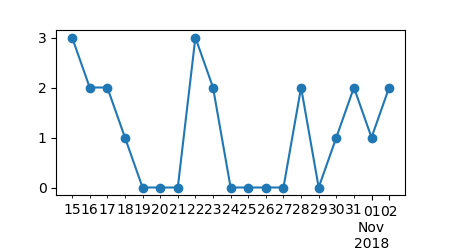
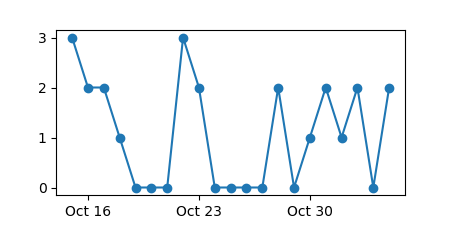
benoit, mueter, fig update

diff --git a/readingStats.py b/readingStats.py
@@ -3,6 +3,7 @@ import pandas as pd
 import itertools
 from collections import Counter
 import matplotlib.pyplot as plt
+import matplotlib.dates as mdates
 import os
 from wordcloud import WordCloud
 
@@ -33,7 +34,11 @@ wordcloud.to_file("readingCloud.png")
 a = readDates.groupby('Date').size()
 idx = pd.date_range(min(readDates.Date), max(readDates.Date))
 a =a.reindex(idx,fill_value=0)
-a.plot(style='o-',figsize = (4.5,2.5))
+fig, ax = plt.subplots(figsize=(4.5,2.5))
+ax.plot(idx,a.values,'o-')
+ax.xaxis.set_major_locator(mdates.WeekdayLocator())
+#set major ticks format
+ax.xaxis.set_major_formatter(mdates.DateFormatter('%b %d'))
 plt.gcf().subplots_adjust(bottom=0.22)
 plt.savefig('readingTimeline.png')
 

diff --git a/pacificArctic/Benoit2008JGRO.md b/pacificArctic/Benoit2008JGRO.md
@@ -1,0 +1,42 @@
+11/04/18
+## Authors:
+Benoit, Delphine and Simard, Yvan and Fortier, Louis
+## Title:
+Hydroacoustic detection of large winter aggregations of Arctic cod (Boreogadus saida) at depth in ice-covered Franklin Bay (Beaufort Sea)
+## Keywords:
+overwinter, behavior, acoustic, retention
+## Geographic Coverage
+Franklin Bay, Beaufort Sea
+## Field Dates:
+12/12/2003 - 06/01/2004
+## Significance:
+This study describes the presence and dispersal of a large, dense aggregation of Arctic cod observed overwinter in Franklin Bay, and aims to explore the physical and behavioral mechanisms responsible for their retention in deep water.
+
+## Notes:
+Previous observations of A. cod standing biomass in the Canadian archipelago in summer showed biomass >25x less than needed to meet the consumption requirements of seabirds and mammals.
+
+The large aggregations of cod are expected in fall and winter when fish gather prior to spawning events under sea ice.  
+
+3 frequency EK60 (38, 120, and 200) were run, and 1 hour from every day was used for the analysis.  They determined a relationship between TS and biomass where TS(w) = TS(n) - 10log(W) where TS(n) is the mean TS of the fish, W is the mean weight of the fish, and TS(w) is in dB/kg.
+
+The physical oceanography of the bay is relatively stable, with warm (0) and saline (34) water at depth (150-200m), corresponding to the base of the pacific thermocline.  The water column becomes stable in January, following ice cover.
+
+A weak shallow scattering layer and strong deep layer were present, with Sv increasing dramatically in late January in the deep layer.
+
+Arctic cod were ~98% of all fish caught during spring sampling, ranging in length from 11 to 25 cm.  Copepods were the dominant zooplankter throughout the study.
+
+The highest fish concentrations corresponded to the highest temperatures (except in late spring when the entire water column began to be populated).  Peak biomass occurred in April.  Based on the strong Sv values, copepods and other zooplankton would have had to be present in abundances mutiple orders of magnitude greater than what was caught, making fish the apparent primary scatterer.
+Primary uncertainty is in the TS estimate of Arctic cod.
+
+The fish were associated with the deeper half (>140m) of the pacific halocline which originates in the Bering and Chukchi Seas.  Fish were likely transported into the bay, then a weakening of the flow supported their retention, since during spawning they likely are not using extensive energy for retention.  Fish sampling in late spring showed mostly empty stomachs, indicating fasting.  Deep DV<, no shallower than 100m, likely helped with retention.
+
+The first shallow DVM into the cold layers coincided with the first detection of chlorophyll a in the surface waters, in mid-March.  At this point the aggregations likely break up as fish move shallow to feed and are swept out of the bay.
+
+The depth keeping behavior is likely two-fold in winter: 1) keeping in the metabolic advantageous deep water and 2)staying below the dive depth of ring seals (~100m).
+
+
+
+Concluding hypotheses
+* Deep, warm water can serve as a winter refuge for Arctic cod
+* Shallow DVM behavior and aggregation dispersal coincide with the presence of shallow primary productivity
+* In deeper bays and basins of the Canadian archipelago, fish are retained due to preference for warmer deep Pacific halocline water

diff --git a/README.md b/README.md
@@ -25,6 +25,8 @@ Notes (author, year, journal in file header) on readings.  Top of each note docu
 
 ## pacificArctic 
  
+* [Benoit2008JGRO - Hydroacoustic detection of large winter aggregations of Arctic cod (Boreogadus saida) at depth in ice-covered Franklin Bay (Beaufort Sea)](https://github.com/leviner/ReadingList/tree/master/pacificArctic/Benoit2008JGRO.md) 
+     * This study describes the presence and dispersal of a large, dense aggregation of Arctic cod observed overwinter in Franklin Bay, and aims to explore the physical and behavioral mechanisms responsible for their retention in deep water. 
 * [BouchardFortier2011PO - Circum-arctic comparison of the hatching season of polar cod Boreogadus saida: A test of the freshwater winter refuge hypothesis](https://github.com/leviner/ReadingList/tree/master/pacificArctic/BouchardFortier2011PO.md) 
      * This paper looks at the hatch date frequency distribution in six regions of differing freshwater input, and find evidence to support the winter refuge hypothesis that Arctic cod in lower saline environments have a greater pre-winter size due to faster development and earlier hatching. 
 * [Buckley2016EBF - Variation in the diet of Arctic Cod (Boreogadus saida) in the Pacific Arctic and Bering Sea](https://github.com/leviner/ReadingList/tree/master/pacificArctic/Buckley2016EBF.md) 
@@ -49,6 +51,8 @@ Notes (author, year, journal in file header) on readings.  Top of each note docu
      * Laboratory temperature experiments were conducted on gadidae to investigate the importance of temperature on fish growath and survival.  Arctic fishes can grow faster at cooler temperatures, but have a limited range.  Their ability to grow under future climate scenarios is presented. 
 * [Loggerwell2015PO - Fish communities across a spectrum of habitats in the western Beaufort Sea and Chukchi Sea](https://github.com/leviner/ReadingList/tree/master/pacificArctic/Loggerwell2015PO.md) 
      * Synthesized five years of surveys to look at differences in abundance (density) of animals from the lagoon to shelf slope in the Chukchi and Beaufort.  They also looked at icthyoplankton.  Based on Icthyoplankton, they state that the Beaufort Sea shelf is likely a spawning location for Arctic cod. 
+* [Mueter2016PB - The ecology of gadid fishes in the circumpolar Arctic with a special emphasis on the polar cod (Boreogadus saida)](https://github.com/leviner/ReadingList/tree/master/pacificArctic/Mueter2016PB.md) 
+     * This is the introduction paper for the 2016 Polar Biology special issue that came out of the 2014 ESSAS annual meeting, focused on Arctic cod and their role in Arctic food webs. 
 * [Quast1974FB - Density distribution of juvenile Arctic cod, Boregogadus saida in the Eastern Chukchi Sea in the fall of 1970](https://github.com/leviner/ReadingList/tree/master/pacificArctic/Quast1974FB.md) 
      * This was the first fisheries survey of Arctic cod in the NE Chukchi (as far as I know), and showed that there were primarily young of the year A. cod, with a depth-dependent density.  Quast also speculates about the origin of the juvenile cod. 
 * [Vestfals2018 - Distribution of early life stages of Arctic cod and saffron cod in the Pacific Arctic](https://github.com/leviner/ReadingList/tree/master/pacificArctic/Vestfals2018.md) 

diff --git a/pacificArctic/Mueter2016PB.md b/pacificArctic/Mueter2016PB.md
@@ -1,0 +1,42 @@
+11/04/18
+## Authors:
+Mueter, Franz J and Nahrgang, Jasmine and John Nelson, R and Berge, Jørgen
+## Title:
+The ecology of gadid fishes in the circumpolar Arctic with a special emphasis on the polar cod (Boreogadus saida)
+## Keywords:
+overview, habitat, distribution, food web, life cycle
+## Geographic Coverage
+Arctic Basin
+## Field Dates:
+N/A
+## Significance:
+This is the introduction paper for the 2016 Polar Biology special issue that came out of the 2014 ESSAS annual meeting, focused on Arctic cod and their role in Arctic food webs.
+
+## Notes:
+While there's a history of research on Arctic cod, research interest has peaked in recent years with the decreasing sea ice and increase in Arctic warming, yet we still have major gaps in our knowledge, particularly of the life-cycle of these fish.  The special issue is organized in themes:
+
+Distribution and Habitat preference
+- B. saida has a pan-arctic distribution, and are by far the most abundance of the arctic gadids
+- Though they have anti-freeze glycoproteins, to survive at sub-zero temperatures, they are not ice-associated species and are primarily pelagic/demersal
+- Young (age-1ish) A. cod are abundance under ice throughout the central arctic as well as basin shelf breaks, likely originating on the Arctic shelves
+- The vertical distribution shifts from surface (eggs) to deeper water and demersal habitat towards the end of their first years
+- Saffron cod mostly inhabit coastal and brackish waters
+- Possible shift in stock distribution was observed in the Russian zone of the Barents Sea, and continued monitoring through fisheries surveys would help to provide good indication of shifts in ecotone
+
+Population genetics
+- Genetic variation across the A. cod range is relatively low, with minimal variability within aggregations
+- There is indication that in some regions, fjord populations have become separated from larger populations on the shelf
+
+Life Cycle Strategies
+- Maximum age of 7-8 years, reaching sexual maturity at 2-3
+- **Assumed** to be a pelagic broadcast spawner, producing large floating eggs sometime between January and March
+- Optimal growth conditions are between 0 and 3 degrees, 30 and 33 psu
+- Favorable temperatures in warm conditions decrease time to hatching
+
+Role in Food web
+- A. cod are key secondary consumer and important trophic transfer to higher levels
+- Generalist feeders, shifting to larger and more benthic prey with an ontogenetic shift in vert8ical distribution
+- High dietary overlap between A. cod and other forage fish (s. cod, pollock, capelin, sandlance) suggests possible interspecific competition as temperature changes shift habitable ranges
+- At warmer temperatures (>5), A. cod are outgrown by most other pacific gadids, but succeed best in colder conditions
+- Poor understanding of how cod distribution changes impact predators
+- Jellyfish are poorly studied as predators to cods, but are possible integral components, especially at local scales.
